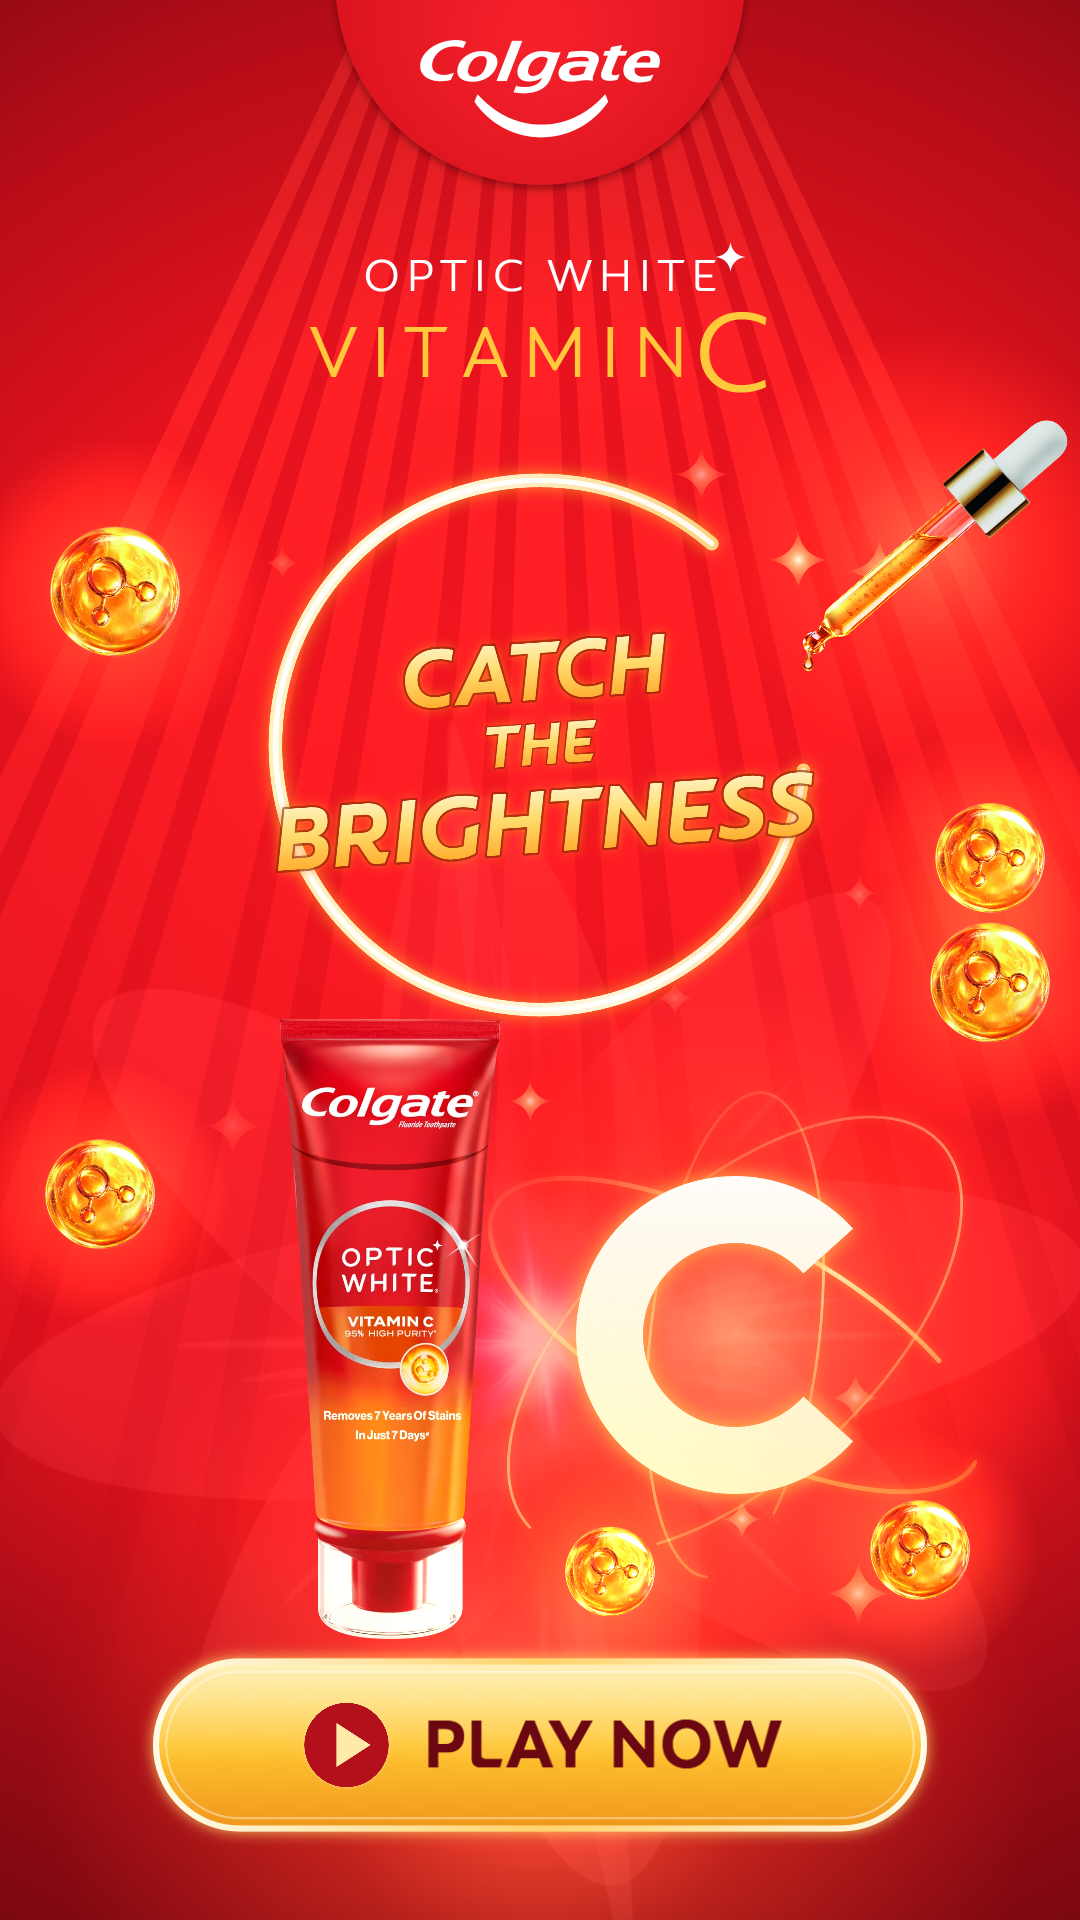
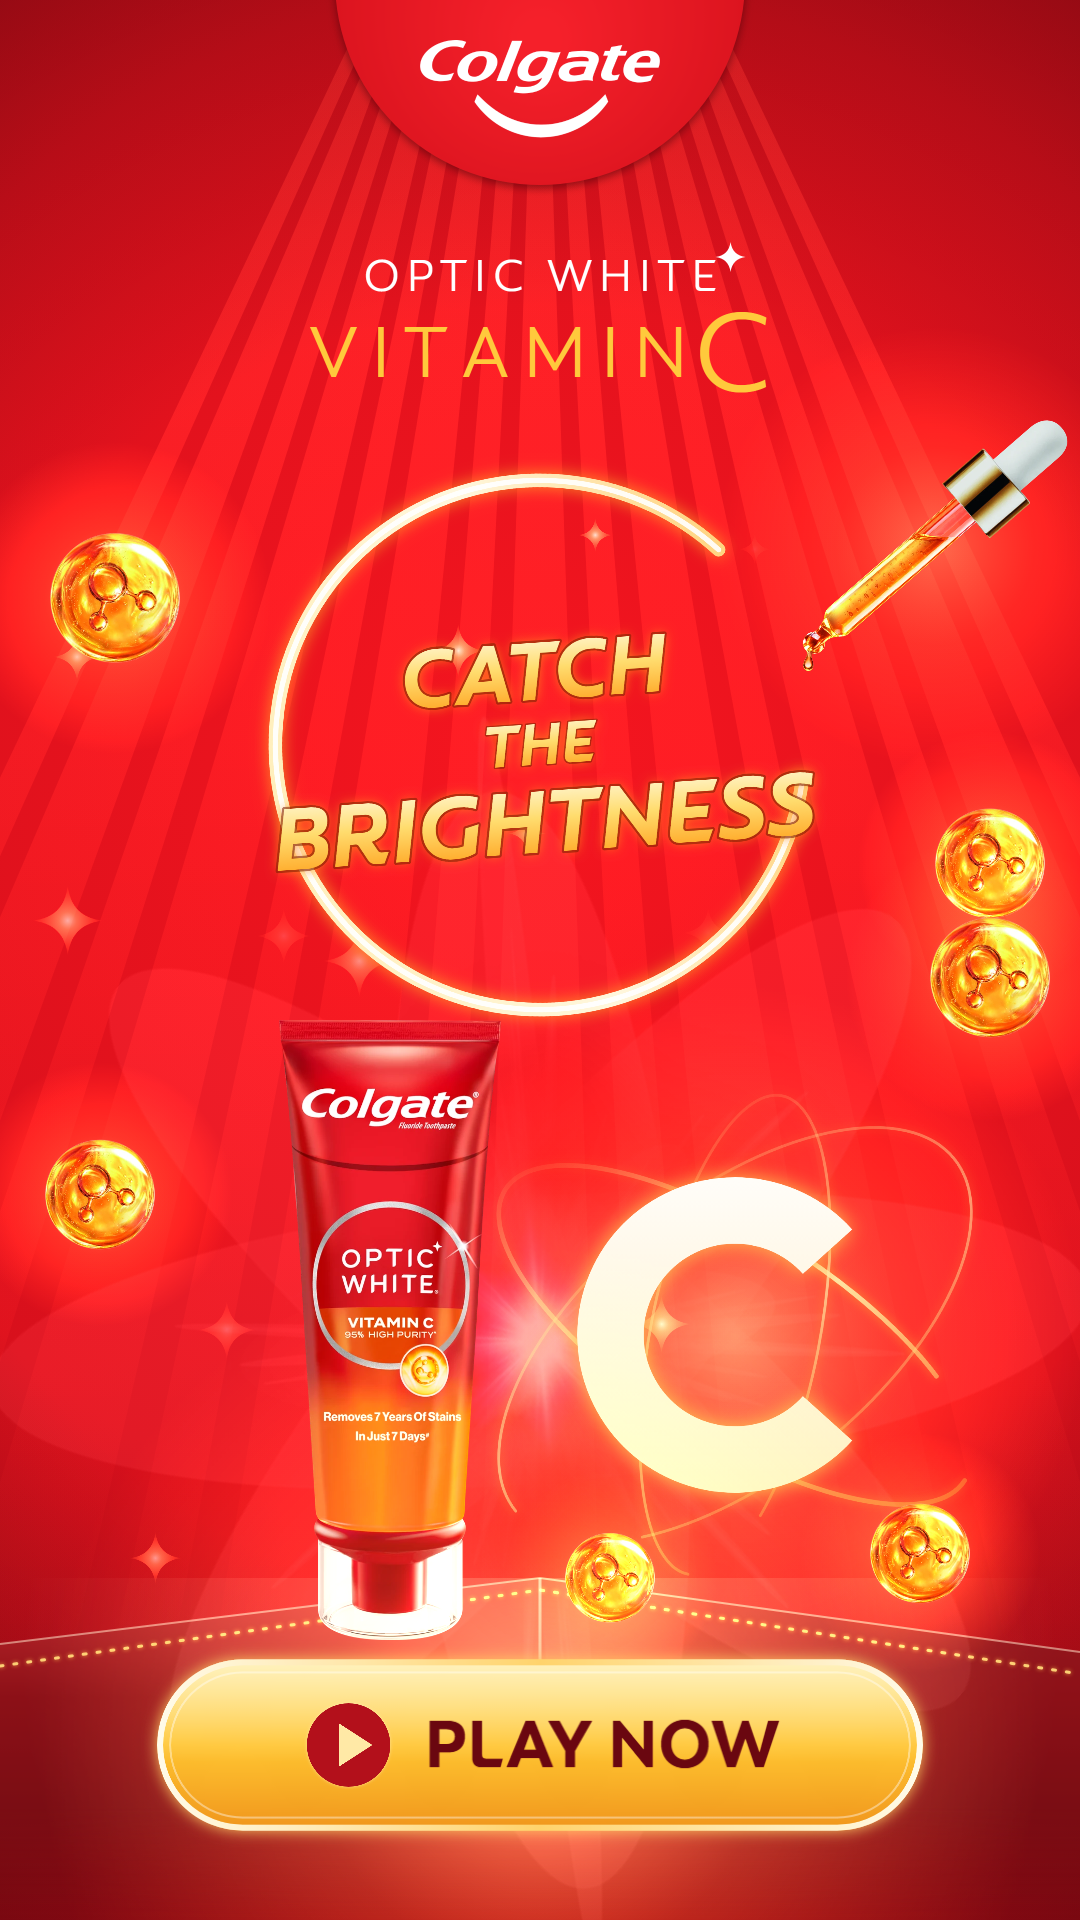
feat: add the glossy stage under the tube on the Attract screen

diff --git a/src/scenes/AttractScene.ts b/src/scenes/AttractScene.ts
@@ -19,6 +19,9 @@ const ADMIN_HOLD_MS = 2000;
 const RING_Y = 745;
 const RING_SIZE = 620;
 const HERO_Y = 1340;
+const TUBE_HEIGHT = 620;
+/** How far the platform's back edge sits above the tube's foot. */
+const STAGE_FOOT_OFFSET = 110;
 
 /** Looping idle screen that invites people to play. Everything else returns here when idle. */
 export class AttractScene extends Phaser.Scene {
@@ -121,6 +124,9 @@ export class AttractScene extends Phaser.Scene {
   private addHero(): void {
     const tubeX = 390;
     const cX = 735;
+    // Glossy platform the tube stands on (its feet sit just below the platform's back edge).
+    const tubeFootY = HERO_Y + TUBE_HEIGHT / 2;
+    addArt(this, GAME_WIDTH / 2, tubeFootY - STAGE_FOOT_OFFSET, 'stage').setOrigin(0.5, 0);
     const flare = this.add
       .image(GAME_WIDTH / 2, HERO_Y, 'flare')
       .setDisplaySize(1100, 1100)
@@ -147,7 +153,7 @@ export class AttractScene extends Phaser.Scene {
     const dropper = this.add.image(935, 560, 'dropper').setDisplaySize(250, 267).setAngle(4);
     float(this, [dropper, dropperGlow], 14, 2600, 300);
 
-    const tube = this.add.image(tubeX, HERO_Y, 'tube').setDisplaySize(222, 620);
+    const tube = this.add.image(tubeX, HERO_Y, 'tube').setDisplaySize(222, TUBE_HEIGHT);
     float(this, tube, 12, 2400);
 
     const capsules = [
